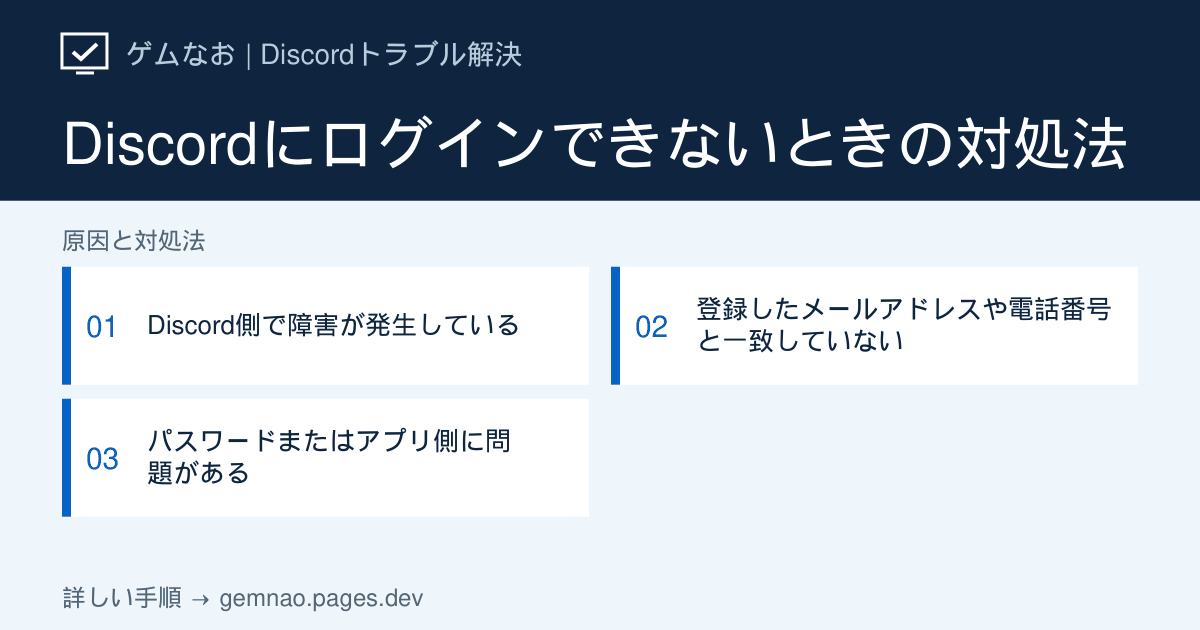
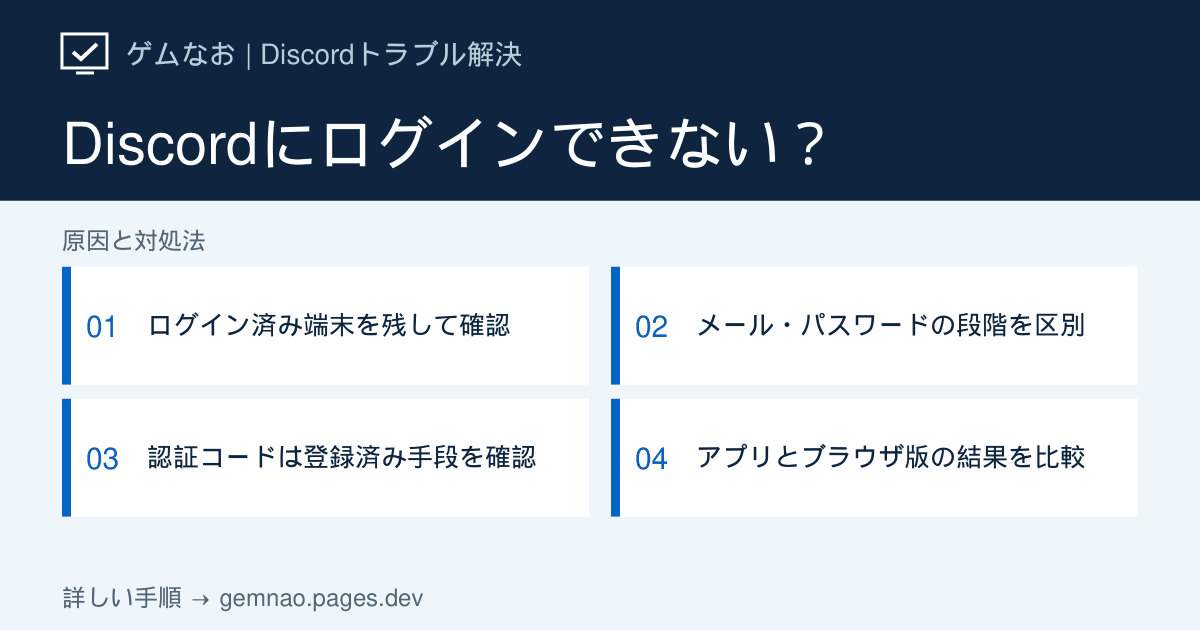
Rewrite Discord login guide with email password and MFA recovery branches

diff --git a/lib/discord-growth-articles.ts b/lib/discord-growth-articles.ts
@@ -238,78 +238,113 @@ export const discordGrowthArticles: DiscordArticle[] = [
   {
     slug: 'login-error',
     category: 'launch',
-    title: 'Discordにログインできないときの対処法',
+    title: 'Discordにログインできない時の直し方｜メール・パスワード・二要素認証別',
     shortTitle: 'ログインできない',
-    seoTitle: 'Discordにログインできないときの対処法｜メール・パスワードを確認',
-    metaDescription:
-      'Discordにログインできない場合の対処法。障害確認、メールアドレスと電話番号、パスワード再設定、アプリとブラウザの切り分けを説明します。',
-    symptom:
-      'Discordにメールアドレスや電話番号を入力してもログインできない、「Email does not exist」などが表示される、正しいはずのパスワードで先へ進めない場合の手順です。',
-    target: 'Windows版・ブラウザ版 Discord',
-    conclusion:
-      '公式ステータスを確認したうえで、登録したメールアドレスまたは電話番号を確認し、パスワード再設定を試します。アプリだけで失敗する場合はブラウザ版で切り分けてください。',
+    seoTitle: 'Discordにログインできない原因と対処法【メール・認証別】',
+    metaDescription: 'Discordにログインできない原因をエラー・停止画面別に判定。登録メールの確認、パスワード再設定メールが届かない場合、認証アプリ・バックアップコード・SMSの条件、アプリとブラウザの比較を解説します。',
+    symptom: 'メールが存在しないと言われる、パスワードが通らない、再設定メールが届かない、認証コードの画面で止まる、アプリだけログインできない場合の手順です。',
+    target: 'DiscordのPCアプリ・ブラウザ版。ログイン済みスマートフォンも確認に利用',
+    conclusion: 'まず別端末にログイン済みなら、その端末をログアウトせず登録メールと利用できる認証方法を確認します。メール不一致は登録情報、パスワード不明は公式の再設定、認証コードで停止する場合は登録済みの認証手段を確認。アプリだけ失敗する場合はブラウザ版と比較します。',
     quickFixes: [
-      'Discord Statusでログイン障害が発生していないか確認する',
-      '登録したメールアドレスまたは電話番号でログインし直す',
-      '「パスワードを忘れた場合」から公式の再設定メールを送る',
+      'ログイン済み端末を残し、止まった画面とエラー文を控える',
+      'メール入力・パスワード・認証コード・読み込み中のどこで止まるかを表で選ぶ',
+      '同じ操作の連打や、先に全端末からログアウトすることを避け、必要な確認だけ進める',
+    ],
+    diagnosisTitle: 'どの画面で止まる？ ログインエラー別の判定表',
+    diagnosisIntro: '「パスワードが通らない」と「パスワードの後の認証が通らない」は別の問題です。例えば認証コード入力まで進んでいるなら、パスワード再設定を繰り返す前に認証手段を確認します。',
+    showStatusCheck: false,
+    diagnosis: [
+      { symptom: 'Email does not exist／登録メールが分からない', check: 'ログイン済み端末のマイアカウントと、過去のDiscordメールを確認', causeIndex: 1 },
+      { symptom: 'メールは分かるがパスワードを忘れた／通らない', check: '公式ログイン画面の「パスワードを忘れた場合」へ', causeIndex: 2 },
+      { symptom: '再設定メールを送ったが届かない', check: '送信先・迷惑メール・受信ルール・メール容量を確認', causeIndex: 3 },
+      { symptom: 'パスワードの後、認証コードで止まる／スマホを紛失した', check: '登録済み認証アプリ・未使用バックアップコード・SMS認証の利用可否を確認', causeIndex: 4 },
+      { symptom: 'アプリだけ失敗する／ログイン後の読み込みが終わらない', check: 'ブラウザ版で同じアカウントの会話一覧まで開けるか比較', causeIndex: 5 },
+      { symptom: '電話番号の確認画面でエラー／SMSが届かない', check: '二要素認証のSMSなのか、電話番号確認なのかを区別', causeIndex: 4 },
+      { symptom: 'アカウント無効化の表示／覚えのないメール変更通知', check: '再インストールより先に通知内容と公式の復旧・問い合わせ案内を確認', causeIndex: 6 },
     ],
     causes: [
       {
-        title: 'Discord側で障害が発生している',
-        description:
-          '認証サービスの障害中は、正しい情報でもログインに失敗する場合があります。',
+        title: '登録メールを確認し、ログイン済み端末を残す',
+        description: 'メールアドレスが違えば、正しいパスワードでも目的のアカウントに入れません。新規登録で作り直す前に、現在の登録情報を確認します。',
         actions: [
-          'Discord Statusを開く',
-          'LoginやAuthenticationに関する障害が出ていないか確認する',
-          '障害がある場合は設定を変更せず、復旧後にもう一度試す',
+          'スマートフォン・PC・ブラウザのどこかでDiscordを使えるなら、その端末はログアウトせずに残す。比較のためにアプリ削除やCookie削除を先に行わない',
+          'PCでは左下の歯車→「マイアカウント」でメールアドレスを確認する。スマートフォンでは自分のプロフィールから設定のアカウント項目を開く。表示や本人確認の案内に従い、確認できる登録情報を控える',
+          'ログイン済み端末がなければ、心当たりのあるメール受信箱でDiscordの過去メールを探す。表示名やユーザー名をメール欄へ入力していないか、前後に空白が入っていないかも確認する',
+          '登録した電話番号が分かる場合は、ログイン画面でメールの代わりにその番号を使えるか確認する。電話番号を入力するログインと、SMSでの本人確認は別の操作',
+          '目的の登録情報が確認できたら、そのメールまたは番号でログインする。パスワードが不明ならSTEP 2へ。元のメールへアクセスできない場合は、先にメール提供元の復旧手順を確認する',
+        ],
+        note: 'Discord公式は、サポートが登録メールを本人へ開示したり、代わりに登録メールを変更したりできないと案内しています。「メールが使えないからサポートに変更してもらう」とは限りません。',
+      },
+      {
+        title: 'パスワードを忘れた場合は、公式画面から再設定する',
+        description: 'パスワード欄で止まっている場合の手順です。二要素認証を設定している場合は、パスワードを変えても認証が不要になるわけではありません。',
+        actions: [
+          'ブラウザのアドレス欄へdiscord.com/loginを直接入力して開く。登録済みメールアドレスを入力し、「パスワードを忘れた場合」を選ぶ',
+          '送信先の受信箱を開き、自分で依頼した再設定メールを探す。見当たらなければ同じ操作を繰り返す前にSTEP 3を確認する',
+          'メールから公式の再設定画面を開き、新しいパスワードを設定する。認証を求められた場合は登録済みの方法で確認し、認証手段を失っている場合はSTEP 4へ進む',
+          'ログイン画面に戻り、新しいパスワードを入力する。自動入力が古いパスワードを入れていないか確認し、更新する',
+          '会話一覧まで開けたら、ユーザー名と参加サーバーが目的のアカウントか確認する。別アカウントに入った場合は、その場でサーバーの参加し直しを始めず登録情報を見直す',
         ],
       },
       {
-        title: '登録したメールアドレスや電話番号と一致していない',
-        description:
-          '公式によると「Email does not exist」は、入力したメールアドレスがDiscordアカウントに紐付いていない場合に表示されます。',
+        title: '再設定メールが届かない：宛先と受信側を確認する',
+        description: '送信操作をしたことと、目的のメールボックスへ届いたことを分けて確認します。以下はメール受信を切り分けるための確認手順です。',
         actions: [
-          '別の端末やブラウザでログイン済みなら、ユーザー設定の「マイアカウント」で登録メールを確認する',
-          '心当たりのあるメール受信箱でDiscordから届いたメールを検索する',
-          '電話番号を登録している場合は、ログイン画面で電話番号を試す',
-          '心当たりのあるメールアドレスでパスワード再設定メールを送る',
+          '再設定時に入力したアドレスを、ログイン済み端末の登録情報や過去メールの宛先と照合する。似たアドレス・別サービスのメール・入力間違いでないか確認する',
+          'メールサービスのブラウザ版を開き、迷惑メール・ゴミ箱・すべてのメールなどを検索する。スマートフォンのメールアプリだけ更新が止まっていないかも比較する',
+          'Discordのメールを別フォルダーへ移す受信ルール、送信者のブロック、メールボックスの空き容量を確認する。勤務先や学校のメールなら管理者へ受信制限を確認する',
+          '宛先を確認して再送した場合は、依頼時刻も控える。「しばらくしてから」などの制限表示が出たら送信を止め、画面の案内に従う。一般のメール遅延に一律の待ち時間は設定しない',
+          'それでも届かないなら、依頼時刻・入力したメール・エラー表示・確認した受信フォルダーを整理し、公式サポートへ問い合わせる。再設定リンクやパスワードは送らない',
         ],
-        note: 'Discordサポートは、アカウントに登録されたメールアドレスを本人へ開示できないと案内しています。',
+        note: 'メール未着だけで「アカウントが存在しない」「乗っ取られた」とは断定できません。登録メールの照合と受信側の確認結果をセットで判断します。',
       },
       {
-        title: 'パスワードまたはアプリ側に問題がある',
-        description:
-          'パスワードが不明な場合は公式の再設定を使い、アプリだけで失敗する場合はブラウザ版で切り分けます。',
+        title: '認証コードで止まる：使える認証方法を確認する',
+        description: '認証アプリのコードと、Discordのバックアップコード、SMSで届くコードは別です。ログイン画面に表示される方法と、事前に設定した方法を照合してください。',
         actions: [
-          'ログイン画面の「パスワードを忘れた場合」を選ぶ',
-          'Discordから届くメールのリンクからパスワードを再設定する',
-          'ブラウザ版Discordで同じアカウントへログインできるか確認する',
-          'ブラウザ版だけ成功する場合は、デスクトップアプリを完全終了して更新する',
+          '認証アプリが使える場合はDiscord用の項目を選び、表示中のコードを入力する。別アカウントのコードや期限が切れたコードを使っていないか確認する',
+          '端末を失った場合は、保存したdiscord_backup_codes.txtや、自分が保存したコードの画像を探す。認証画面の「別の方法で認証」（Verify with something else）→バックアップコードを使う項目から、未使用のコードを入力する',
+          '別端末でログイン済みなら、ユーザー設定→「マイアカウント」のバックアップコード表示を確認する。公式案内では表示時にパスワードが必要。ログイン済みであれば無条件に取り出せるとは限らない',
+          'SMS認証を事前に設定していた場合は、別の認証方法から電話へのコード送信を選べるか確認する。電話番号を登録しているだけで、SMSを二要素認証の代わりに使えるとは限らない',
+          '登録済みのパスキーなど別の方法が画面に表示されるなら、その登録済み手段を確認する。電話番号の新規確認や番号エラーで止まる場合は「電話番号認証・SMSが届かない」の関連記事へ進む',
+          '復旧後は公式の設定手順で認証手段を見直し、バックアップコードを安全な場所へ保存する。認証アプリもコードも使えない場合は、利用可能な別手段の有無を確認し、解除を約束する非公式サービスを使わない',
+        ],
+        note: 'Discord公式は、バックアップコードへアクセスできない場合にサポートがMFAを解除したり、新しいバックアップコードを発行したりできないと案内しています。パスワード再設定だけでこの制約は解消しません。',
+      },
+      {
+        title: 'アプリだけ失敗する：同じアカウントでブラウザ比較を行う',
+        description: '登録情報ではなくアプリや接続側の問題かを調べます。ログイン済みの端末を比較のためにログアウトする必要はありません。',
+        actions: [
+          '問題のPCでブラウザ版discord.com/appを開き、同じアカウントの会話一覧まで表示できるか確認する。紹介ページが開くだけではログイン成功とは扱わない',
+          'ブラウザ版だけ成功する場合は、デスクトップアプリを通知領域から完全終了し、開き直して更新を反映する。起動できない・灰色画面の場合は、それぞれの関連記事へ進む',
+          'アプリもブラウザも失敗する場合はDiscord Statusを確認し、同じエラーなのか、片方は読み込み中なのかを記録する。障害中は復旧後に比較する',
+          '他サイトも開かないならネット接続を先に確認する。Discordの認証エラーだけが残るなら、接続設定を次々に変えず、そのエラーに対応するSTEPへ戻る',
+        ],
+      },
+      {
+        title: '無効化・身に覚えのない変更は、通知内容に合う窓口へ進む',
+        description: 'アカウントの状態に関する表示は、アプリの再インストールでは解決しない場合があります。通常のパスワード忘れとは分けて扱います。',
+        actions: [
+          'アカウント無効化や利用制限が表示されたら、画面と登録メールの案内を確認し、案内された公式の問い合わせ・異議申し立てへ進む。メールやキャッシュ削除を繰り返さない',
+          '身に覚えのない登録メール変更通知がある場合は、元のメールに届いた通知の「Start Account Recovery」を確認する。公式案内ではリンクは48時間有効で、URLはhttps://discord.com/wasntme/から始まる。出典の復旧手順に従い、リンクを他人に渡さない',
+          'メール変更の復旧を完了すると全端末からログアウトされ、電話番号やMFAも解除されるため、復旧後に再設定する。期限切れリンクをサポートが再発行することはできない',
+          'メール追加・変更時のInvalid EmailやChanging Email Too Fastは、通常ログイン時のメール不一致と区別する。公式はこれらの対象エラーで24時間待つよう案内しているが、すべてのログイン失敗に同じ待ち時間を当てはめない',
+          '問い合わせにはエラー全文・発生時刻・操作した画面・ログイン済み端末の有無を添える。パスワード、認証コード、バックアップコード、再設定URLは添付しない',
         ],
       },
     ],
-    ifNotFixed:
-      'メールへのアクセスを失った場合、Discord公式は登録メールを変更するために元のメールへアクセスできる必要があると案内しています。まずメール提供元へ復旧を依頼してください。二要素認証やバックアップコードの問題を回避する非公式ツールは使わず、Discord公式サポートを利用してください。',
+    ifNotFixed: '相談用に「止まる画面／エラー全文／登録メールを確認できたか／メールを受信できるか／利用できる認証方法／ログイン済み端末の有無／アプリとブラウザの結果」をまとめます。例：パスワード後の認証画面で停止、スマートフォンではログイン済み、認証アプリを使えない。この場合はメール再送より、ログイン済み端末と保存済み認証手段の確認を優先します。',
     faqs: [
-      {
-        question: '「Email does not exist」と表示されます',
-        answer:
-          '入力したメールアドレスがDiscordアカウントに紐付いていない状態です。別端末のログイン状態、Discordから届いた過去メール、登録した電話番号を確認してください。',
-      },
-      {
-        question: '登録したメールアドレスをDiscordサポートに教えてもらえますか？',
-        answer:
-          'Discord公式は、アカウントに紐付いたメールアドレスをサポートから開示できないと案内しています。ログイン済み端末や受信箱を確認してください。',
-      },
-      {
-        question: 'メールへアクセスできない場合、登録メールを変更できますか？',
-        answer:
-          'Discord公式では、登録メールを変更するために元のメールへアクセスできる必要があると案内しています。先にメール提供元へアカウント復旧を依頼してください。',
-      },
+      { question: 'パスワードを変えれば二要素認証なしで入れますか？', answer: 'パスワードの再設定と二要素認証は別です。認証を求められる場合は、登録済み認証方法や未使用のバックアップコードなどを確認してください。' },
+      { question: 'スマートフォンでは使えます。ログアウトして試すべき？', answer: '先にログアウトせず、登録メールや認証手段を確認してください。その端末が唯一使える状態なら、復旧に必要な情報を確認できる機会を失わないようにします。' },
+      { question: 'メールアドレスを忘れたらサポートが教えてくれますか？', answer: '公式は登録メールを開示できないと案内しています。ログイン済み端末のアカウント情報、Discordからの過去メール、登録した電話番号を確認してください。' },
+      { question: '再設定メールが来ない時は24時間待てばいい？', answer: 'メール未着全般に24時間という固定条件はありません。まず宛先と受信側を確認します。24時間の案内は、メール追加・変更に関する特定エラーへの公式手順と区別してください。' },
     ],
-    sources: [loginGuide, status],
-    related: ['loading-stuck', 'update-failed', 'not-opening'],
-    checkedAt: '2026-09-19',
+    sources: [loginGuide, official('218410947-How-to-Reset-or-Change-Your-Forgotten-Password-on-Discord', 'パスワードの変更・再設定（英語）'), official('115001221072-How-to-Recover-Your-Discord-Account-When-Locked-Out-of-Multi-Factor-Authentication-MFA', '多要素認証でログインできない場合の復旧（英語）'), official('219576828-Setting-up-Multi-Factor-Authentication', '多要素認証の設定（英語）'), official('27299669812375-My-Discord-Email-was-Changed-and-I-Want-to-Undo-It', 'メール変更を元に戻す（英語）'), status],
+    related: ['phone-verification-error', 'loading-stuck', 'not-opening', 'update-failed'],
+    ogTitle: 'Discordにログインできない？',
+    ogSteps: ['ログイン済み端末を残して確認', 'メール・パスワードの段階を区別', '認証コードは登録済み手段を確認', 'アプリとブラウザ版の結果を比較'],
+    checkedAt: '2026-09-28',
     status: 'verified',
   },
   {

diff --git a/lib/og-image-manifest.ts b/lib/og-image-manifest.ts
@@ -17,7 +17,7 @@ export const ogImageManifest: Record<string, string> = {
   "/discord/game-volume-lowers": "51f67981",
   "/discord/installation-failed": "f0058f33",
   "/discord/loading-stuck": "c18e0bfc",
-  "/discord/login-error": "9a75aebd",
+  "/discord/login-error": "de4a0c87",
   "/discord/mic-not-working": "56b12974",
   "/discord/mic-volume-low": "148725ee",
   "/discord/no-route": "7419f17d",
